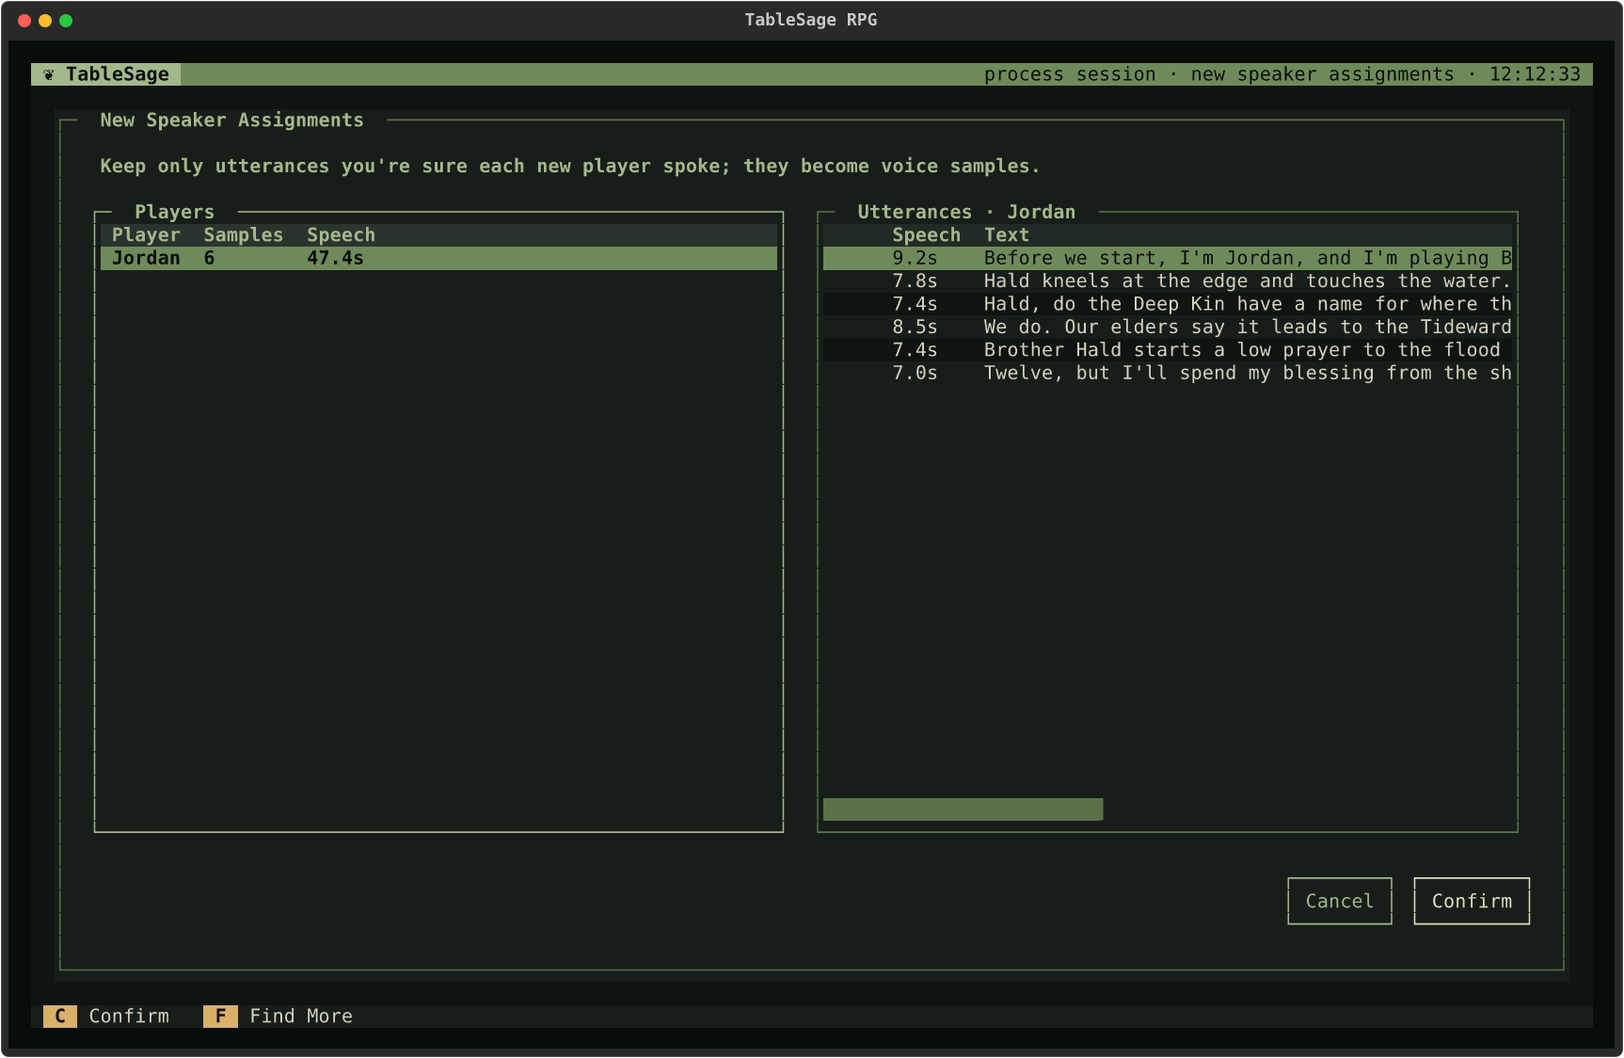
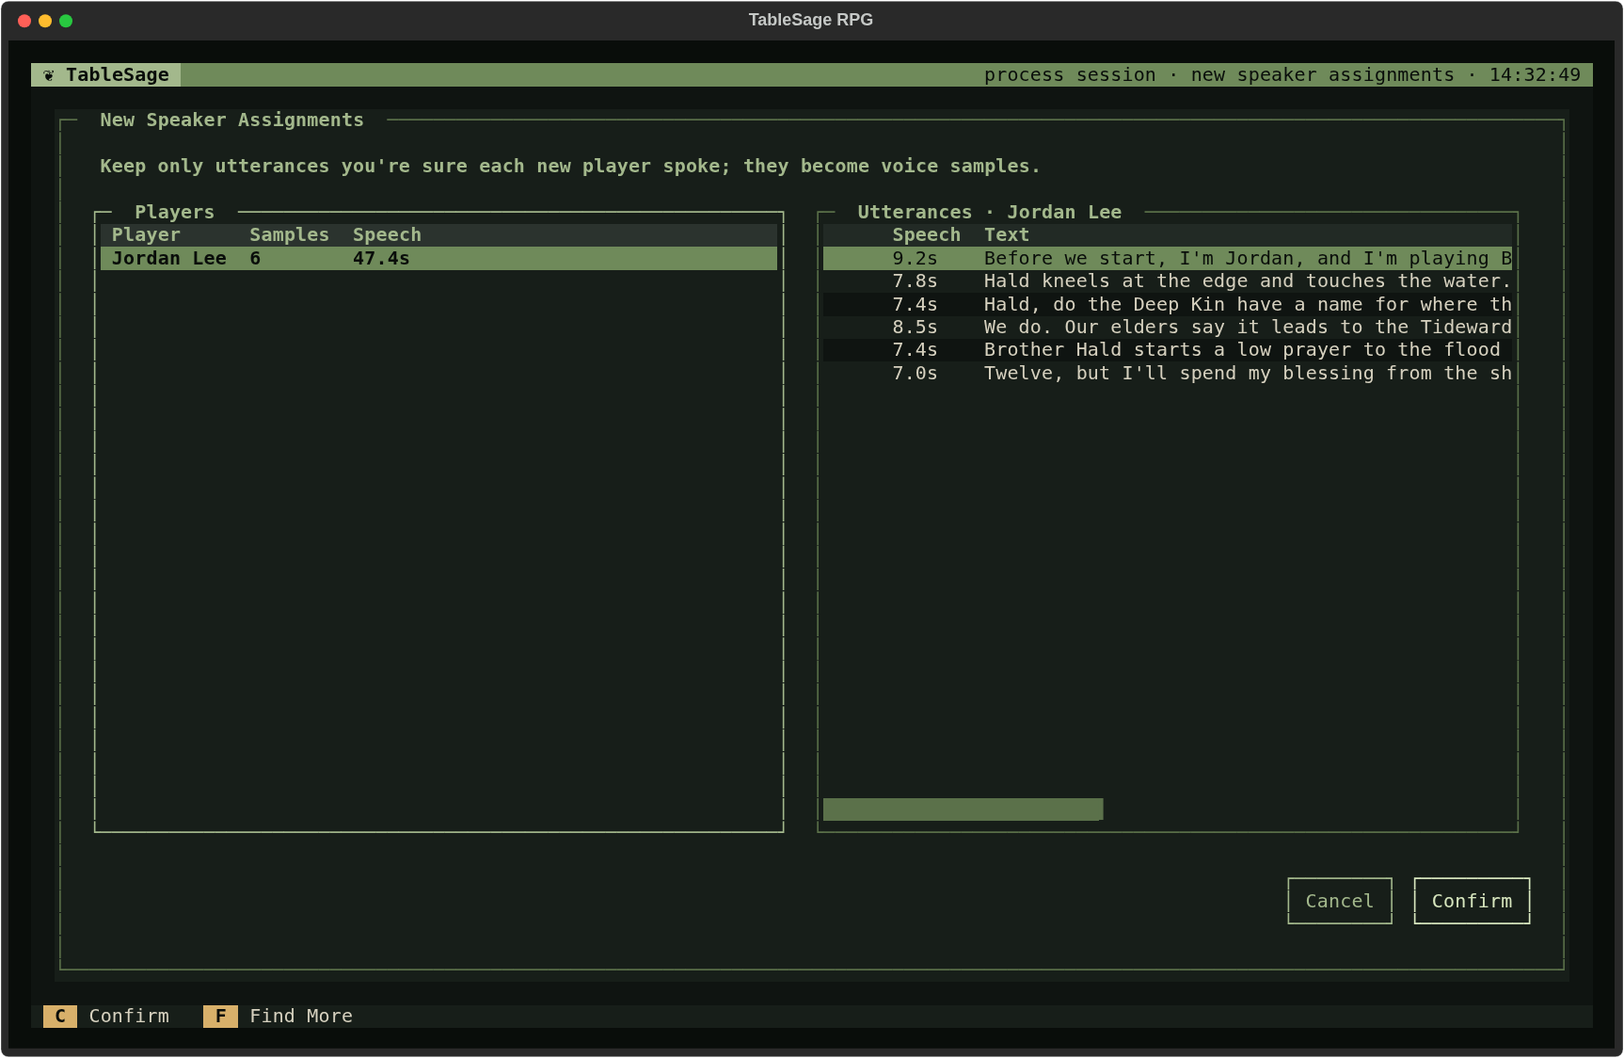
Use full Player names in documentation examples and screenshots
The docs now recommend entering a Player's full name so Players who share
a first name stay distinct, so the examples follow that advice:

- Rewrite example Players in the guides, concepts, and screen reference
  with full names (Alice Chen, Bob Martinez, Priya Patel, Jordan Lee,
  Morgan Reyes). In-character dialogue keeps first names.
- Recapture the 21 screenshots that show Player names from a reseeded
  documentation fixture.
- Seed full names in seed_sample_data.py, and restore its attendance
  seeding (lost with the roster removal), without which seeded Sessions
  had no attendees and seed_docs_data.py failed.
- Update seed_docs_data.py's verification for the current artifact graph:
  its hand-written outputs import as present-but-stale legacy artifacts,
  so check they exist and that each Scene Breakdown matches its Ledger
  instead of requiring current states and a campaign history.
- Start a Campaign: add the full-name recommendation and drop the date
  validation and prior-recap details.
- Replace "voice profiles" with "voice prints" in scripts/README.md.

diff --git a/scripts/seed_docs_data.py b/scripts/seed_docs_data.py
@@ -30,7 +30,12 @@ from tablesage_application.session_pipeline.generate_player_introductions import
     validate_player_introductions,
 )
 from tablesage_application.session_pipeline.role_transcript import RoleTranscript, RoleTranscriptUtterance
-from tablesage_application.session_pipeline.scene_breakdown import Scene, SceneBreakdownContent, persist_ledger_pair
+from tablesage_application.session_pipeline.scene_breakdown import (
+    Scene,
+    SceneBreakdown,
+    SceneBreakdownContent,
+    persist_ledger_pair,
+)
 from tablesage_application.session_pipeline.transcript_sections import (
     InclusiveUtteranceRange,
     TranscriptSectionsGenerationResponse,
@@ -43,11 +48,26 @@ from tablesage_tools.model import Transcript
 from tablesage_tools.model.transcript import TranscriptionWord, Utterance
 
 GM = "Game Master"
-PLAYERS = {GM: "Alice", "Thorgrim": "Bob", "Lyra": "Priya"}
+PLAYERS = {GM: "Alice Chen", "Thorgrim": "Bob Martinez", "Lyra": "Priya Patel"}
 INTRODUCTIONS = [
     PlayerIntroduction(character="Thorgrim", description="A dwarven shieldbearer searching for his missing sister, Dagna."),
     PlayerIntroduction(character="Lyra", description="An elven cartographer tracing the lost waterways beneath Ironhold."),
 ]
+
+# Session outputs this script writes by hand.
+AUTHORED = (
+    ArtifactName.INPUT_AUDIO,
+    ArtifactName.TRANSCRIPT,
+    ArtifactName.TRANSCRIPT_TEXT,
+    ArtifactName.REVIEWED_TRANSCRIPT,
+    ArtifactName.ROLE_TRANSCRIPT,
+    ArtifactName.TRANSCRIPT_SECTIONS,
+    ArtifactName.LEDGER,
+    ArtifactName.SCENE_BREAKDOWN,
+    ArtifactName.PLAYER_INTRODUCTIONS,
+    ArtifactName.RECAP_SUMMARY,
+    ArtifactName.SUMMARY,
+)
 
 # Each scene's entries are (role, established fact/action). These authored fixtures
 # deliberately keep transcript, Ledger, scene coverage, and summaries aligned.
@@ -286,29 +306,19 @@ def verify(app: Application) -> None:
         validate_player_introductions(introductions, ledger.attendees)
         Transcript.load(folder / "transcript.json")
         Transcript.load(folder / "transcript_reviewed.json")
-        # Registered for the reworked processing flow, but nothing generates them yet.
-        not_yet_generated = {
-            ArtifactName.NEW_SPEAKER_SET,
-            ArtifactName.NEW_SPEAKER_ASSIGNMENTS,
-            ArtifactName.CLEANED_TRANSCRIPT,
-            ArtifactName.REVIEWED_NEW_SPEAKER_ASSIGNMENTS,
-            ArtifactName.SPEAKER_ENHANCED_TRANSCRIPT,
-            ArtifactName.SPELLCHECKED_TRANSCRIPT,
-        }
-        expected = set(ArtifactName) - not_yet_generated
+        # The app imports these authored files as legacy outputs: present but stale, so Previously On and
+        # Opportunities refuse them. The screenshot launchers build that history from scene_breakdown.json.
         states = app.session_artifact_states(game_session.id)
-        invalid = {name.value: states[name].value for name in expected if states[name] != ArtifactStatus.CURRENT}
-        if invalid:
-            raise ValueError(f"Invalid artifact states for {game_session.name}: {invalid}")
+        missing = [name.value for name in AUTHORED if states[name] == ArtifactStatus.MISSING]
+        if missing:
+            raise ValueError(f"Missing authored outputs for {game_session.name}: {missing}")
+        breakdown = SceneBreakdown.load(folder / "scene_breakdown.json")
+        if breakdown.ledger_sha256 != hashlib.sha256((folder / "ledger.json").read_bytes()).hexdigest():
+            raise ValueError(f"Scene Breakdown provenance mismatch for {game_session.name}")
         export_count = len(app.exportable_artifacts(game_session.id))
-        print(f"Verified {game_session.name}: {len(ledger.utterances)} Ledger entries; {export_count} exports")
-    history = app.previously_on_history(campaign.id)
-    for session in history.sessions:
-        folder = app.session_folder(session.breakdown.session_id)
-        if session.breakdown.ledger_sha256 != hashlib.sha256((folder / "ledger.json").read_bytes()).hexdigest():
-            raise ValueError("Scene Breakdown provenance mismatch")
-    recap = app.create_campaign_scene_recap(campaign.id)
-    print(f"Campaign history ready: {len(history.sessions)} sessions, {len(recap.scenes)} scenes")
+        print(
+            f"Verified {game_session.name}: {len(ledger.utterances)} Ledger entries, {len(breakdown.scenes)} scenes; {export_count} exports"
+        )
 
 
 def main() -> None:

diff --git a/scripts/seed_sample_data.py b/scripts/seed_sample_data.py
@@ -42,22 +42,30 @@ def _ensure_glossary_entry(app: Application, campaign: Campaign, term: str, desc
     app.create_glossary_entry(GlossaryEntry(campaign_id=campaign.id, term=term, description=description))
 
 
-def _ensure_sessions(app: Application, campaign: Campaign, sessions: list[tuple[str, date]]) -> None:
+def _ensure_sessions(app: Application, campaign: Campaign, sessions: list[tuple[str, date]], attendees: list[tuple[Player, str]]) -> None:
+    """Create missing sessions; give any session without attendance these (player, role) attendees.
+
+    A new session copies its predecessor's attendance, so normally only the first one is filled here.
+    """
     existing_names = {s.name for s in app.list_sessions(campaign.id)}
     for name, session_date in sessions:
-        if name in existing_names:
-            continue
-        app.create_session(campaign.id, name, session_date)
+        if name not in existing_names:
+            app.create_session(campaign.id, name, session_date)
+        game_session = next(s for s in app.list_sessions(campaign.id) if s.name == name)
+        if not app.list_attendance(game_session.id):
+            for player, role in attendees:
+                app.add_attendance_with_roles(game_session.id, player.id, [role])
 
 
 def seed(app: Application) -> None:
-    _get_or_create_player(app, "Alice")
-    _get_or_create_player(app, "Bob")
-    _get_or_create_player(app, "Priya")
-    _get_or_create_player(app, "Sam")
+    # Full names, as the documentation recommends, so Players who share a first name stay distinct.
+    alice = _get_or_create_player(app, "Alice Chen")
+    bob = _get_or_create_player(app, "Bob Martinez")
+    priya = _get_or_create_player(app, "Priya Patel")
+    sam = _get_or_create_player(app, "Sam Okafor")
 
     # A player with no voice clips/voice print yet, to exercise that empty state.
-    _get_or_create_player(app, "Jordan")
+    _get_or_create_player(app, "Jordan Lee")
 
     iron_pact = _get_or_create_campaign(
         app,
@@ -92,6 +100,7 @@ def seed(app: Application) -> None:
             ("Tunnels of the Deep Kin", date(2026, 1, 11)),
             ("The Ashspine Betrayal", date(2026, 1, 25)),
         ],
+        [(alice, "Game Master"), (priya, "Lyra"), (bob, "Thorgrim")],
     )
     _ensure_sessions(
         app,
@@ -100,8 +109,9 @@ def seed(app: Application) -> None:
             ("A Crown Without a Head", date(2026, 2, 1)),
             ("The Regent's Gambit", date(2026, 2, 15)),
         ],
+        [(priya, "Nadia"), (sam, "Kestrel"), (bob, "Game Master")],
     )
-    _ensure_sessions(app, voidfall, [("The Long Fall", date(2026, 3, 1))])
+    _ensure_sessions(app, voidfall, [("The Long Fall", date(2026, 3, 1))], [(alice, "Vex"), (priya, "Game Master"), (sam, "Juno")])
 
 
 def main() -> None:

diff --git a/docs/guides/start-a-campaign.md b/docs/guides/start-a-campaign.md
@@ -17,20 +17,18 @@ The Campaign now has a home for its Sessions and Glossary. Its first Session can
 
 ## Create the First Session
 
-On the Campaign's **Sessions** tab, press **N** (**New Session**). Give the Session a useful name, such as *Arrival at the Harbor*, and enter its required date as `YYYY-MM-DD`. Use a real calendar date, such as `2026-10-01`. A blank date shows *Date is required.* An impossible date or another format shows an inline error; correct it before continuing. Choose **Create Session**. TableSage opens Session Detail.
-
-TableSage uses Session dates to choose the prior recap for later session summaries. Older Sessions can still be undated; when every Session is undated, no prior recap is included. See [How the Prior Recap Is Chosen](../concepts/sessions.md#how-the-prior-recap-is-chosen).
+On the Campaign's **Sessions** tab, press **N** (**New Session**). Give the Session a useful name, such as *Arrival at the Harbor*, and enter its required date as `YYYY-MM-DD`. Use a real calendar date, such as `2026-10-01`. Choose **Create Session**. TableSage opens Session Detail.
 
 The first Session starts with an empty Attendance list. Add everyone whose speech is in the recording, including the game master.
 
 ## Add Attendees and Roles
 
 1. Focus the **Attendance** table and press **N** (**New Attendee**).
-2. In **Player**, select an existing person, or choose **<New player…>** and enter their real-world name. TableSage creates the Player and returns to the attendee dialog.
+2. In **Player**, select an existing person, or choose **<New player…>** and enter their real-world name. TableSage creates the Player and returns to the attendee dialog. We recommend using the Player's full name, with normal spacing and capitalization, so that Players who share a first name stay distinct.
 3. Add their Role: press **R** (**Add Role**) for a character name, or **G** (**Add Game Master**) for the GM.
 4. Choose **Save**, then repeat for the other attendees.
 
-For example, Jordan is the Player and *Brother Hald* is their Role. Morgan is another Player with the *Game Master* Role. Use the Player's name for the person speaking and the Role for their identity in this particular Session. A Player can have more than one Role, but transcript attribution uses only the alphabetically first Role for all their speech; TableSage does not distinguish their characters line by line.
+For example, Jordan Lee is the Player and *Brother Hald* is their Role. Morgan Reyes is another Player with the *Game Master* Role. Use the Player's name for the person speaking and the Role for their identity in this particular Session. A Player can have more than one Role, but transcript attribution uses only the alphabetically first Role for all their speech; TableSage does not distinguish their characters line by line.
 
 ![The attendee dialog, with a Player selection and a list of Roles](../images/screens/attendee-dialog.png)
 

diff --git a/docs/guides/process-session-new-players.md b/docs/guides/process-session-new-players.md
@@ -9,7 +9,7 @@ You need the session recording, configured [keys and models](settings.md), and a
 1. On Session Detail, check that everyone who spoke is in **Attendance**, including the GM, and that their Roles are correct.
 2. Press **P** (**Process**). The **New Players** panel names the attendees whose voices need to be learned.
 
-   ![Process Session before processing, listing Jordan under New Players](../images/screens/process-session-new-player.png)
+   ![Process Session before processing, listing Jordan Lee under New Players](../images/screens/process-session-new-player.png)
 
 3. Press **C** (**Continue**) and choose the recording. Supported formats are `.wav`, `.mp3`, `.m4a`, `.flac`, and `.ogg`.
 4. For a `.wav`, answer **Clean Audio?**: choose **Yes** for a raw recording or **No** if it has already been cleaned. Other supported formats are cleaned automatically.
@@ -31,7 +31,7 @@ The replacements apply across the transcript. Correct names help TableSage inter
 
 **Review New Speaker Assignments** proposes lines for each new Player. The lines you keep will become voice samples, so listen to them and keep only speech you are sure belongs to that person.
 
-A character name mentioned in a line is not enough to identify its speaker. If Priya says “Hald, what do you think?”, that is Priya's voice, even though Hald is Jordan's character. A few certain clips are more useful than a collection containing mixed voices.
+A character name mentioned in a line is not enough to identify its speaker. If Priya Patel says “Hald, what do you think?”, that is Priya's voice, even though Hald is Jordan Lee's character. A few certain clips are more useful than a collection containing mixed voices.
 
 1. Select a Player in the **Players** pane, then press **→** or **Enter** to enter their **Utterances**.
 2. Move through the lines to hear their clips.

diff --git a/docs/reference/screens/campaigns.md b/docs/reference/screens/campaigns.md
@@ -29,7 +29,7 @@ The list shows every Campaign in the workspace, one Campaign per two-line row: i
 |---|---|
 | **C** | **Clean Up.** After you confirm, removes campaign folders on disk that no longer have a Campaign in the database, such as those left by deleted Campaigns. A notification lists what was removed, or says there was nothing to remove. |
 | **X** | **Export Campaign.** Writes the highlighted Campaign, with its Sessions, Glossary, and files, to a ZIP archive (default name `campaign.zip`). Unavailable when no Campaign is highlighted. It refuses with *Wait for campaign processing to finish before exporting* while any of the Campaign's Sessions is being processed. |
-| **I** | **Import Campaign.** Imports a Campaign from a ZIP archive made by Export Campaign. Players are workspace-wide and aren't part of a campaign archive, so every Player who attended its Sessions must already exist here with the same name; use [Import Players](players.md#other-actions) first. If the import fails, an **Import Campaign Failed** window lists the problems, such as *Missing player: Jordan*. |
+| **I** | **Import Campaign.** Imports a Campaign from a ZIP archive made by Export Campaign. Players are workspace-wide and aren't part of a campaign archive, so every Player who attended its Sessions must already exist here with the same name; use [Import Players](players.md#other-actions) first. If the import fails, an **Import Campaign Failed** window lists the problems, such as *Missing player: Jordan Lee*. |
 
 ### Campaign Dialog
 

diff --git a/docs/guides/move-campaign-workspace.md b/docs/guides/move-campaign-workspace.md
@@ -38,7 +38,7 @@ On the same computer and user account, your existing API keys are shared with th
 
 Existing Players are matched by name, ignoring capitalization and surrounding spaces, and their clips are merged. Identical clips are skipped. If the destination already has Players, make sure matching names refer to the same people before importing.
 
-Campaign import requires every attendee to exist with the exact archived player name. A destination Player whose name differs in capitalization may be matched by player import but still fail the Campaign's exact-name check. For example, if the destination already has a Player named *priya* and the archive's attendee is *Priya*, player import merges Priya's clips into *priya*, but campaign import reports *Missing player: Priya*. Check the reported missing name and use **Edit Metadata** on Player Detail to make the name match before retrying campaign import.
+Campaign import requires every attendee to exist with the exact archived player name. A destination Player whose name differs in capitalization may be matched by player import but still fail the Campaign's exact-name check. For example, if the destination already has a Player named *priya patel* and the archive's attendee is *Priya Patel*, player import merges Priya's clips into *priya patel*, but campaign import reports *Missing player: Priya Patel*. Check the reported missing name and use **Edit Metadata** on Player Detail to make the name match before retrying campaign import.
 
 ## Import the Campaign
 

diff --git a/scripts/README.md b/scripts/README.md
@@ -11,7 +11,7 @@ Keep each utility in a single `.py` file when practical. Scripts should:
 
 ## Documentation sample data
 
-`seed_docs_data.py --cwd .for-docs` populates an initialized, empty documentation deployment with fictional players and campaigns. Run it with a Python environment containing TableSage. It uses `seed_sample_data.py` for the basic entities and adds three complete Iron Pact sessions with transcripts, Ledgers, scenes, introductions, recaps, and summaries. All outputs are authored fixtures; the WAV files contain silence, and no provider calls or real voice profiles are involved.
+`seed_docs_data.py --cwd .for-docs` populates an initialized, empty documentation deployment with fictional players and campaigns. Run it with a Python environment containing TableSage. It uses `seed_sample_data.py` for the basic entities and adds three complete Iron Pact sessions with transcripts, Ledgers, scenes, introductions, recaps, and summaries. All outputs are authored fixtures; the WAV files contain silence, and no provider calls or real voice prints are involved.
 
 The script backs up the empty database before seeding, refuses existing user data, and verifies a marked fixture on subsequent runs without overwriting edits. Textual MCP launch instructions for the seeded deployment are kept in the git-ignored `.for-docs/session-processing/README.md`.
 

diff --git a/docs/concepts/session-processing-new-players.md b/docs/concepts/session-processing-new-players.md
@@ -57,7 +57,7 @@ The result is a set of candidate samples, not an established identity. Someone w
 
 Human review checks whether each candidate really contains the intended Player's voice. Listening to the recording helps distinguish a person speaking from someone merely mentioning or addressing them.
 
-For example, *Hald, do the Deep Kin have a name…* mentions Jordan's character, but Priya may be the one asking the question. Treating it as Jordan's speech would mix Priya's voice into Jordan's samples. A few certain lines are more valuable than a larger collection of mixed voices.
+For example, *Hald, do the Deep Kin have a name…* mentions Jordan Lee's character, but Priya Patel may be the one asking the question. Treating it as Jordan's speech would mix Priya's voice into Jordan's samples. A few certain lines are more valuable than a larger collection of mixed voices.
 
 When more evidence is needed, TableSage can search for speech acoustically similar to the confirmed candidates, comparing it with competing voices. Those additions also require human review. This expands the evidence without letting a voice match alone become proof of identity.
 

diff --git a/docs/reference/screens/process-session.md b/docs/reference/screens/process-session.md
@@ -29,7 +29,7 @@ The mark at the left of each row shows its state:
 
 Some steps appear only when they apply:
 
-- **New Players.** When any attendee is a new Player, their names are listed at the right, and six more steps appear: Suggest Name Corrections, **Review Name Corrections**, Apply Name Corrections, Isolate New Speakers, **Review New Speaker Assignments**, and Seed Player Voice Samples. The screenshot above shows a Session with a new Player, Jordan. A Session where everyone already has a voice print skips those steps:
+- **New Players.** When any attendee is a new Player, their names are listed at the right, and six more steps appear: Suggest Name Corrections, **Review Name Corrections**, Apply Name Corrections, Isolate New Speakers, **Review New Speaker Assignments**, and Seed Player Voice Samples. The screenshot above shows a Session with a new Player, Jordan Lee. A Session where everyone already has a voice print skips those steps:
 
   ![Process Session for returning Players, part-way through](../../images/screens/process-session-midway.png)
 

diff --git a/docs/reference/screens/index.md b/docs/reference/screens/index.md
@@ -4,7 +4,7 @@ This section documents every screen in TableSage: what it shows, every key it re
 
 Start with [Common UI Patterns](ui-patterns.md). It covers the conventions every screen shares: going back with **Esc**, quitting with **Ctrl+Q**, the **New**, **Edit**, and **Delete** keys on lists, secondary actions and the **?** menu, unavailable actions, and the common dialogs.
 
-The screenshots use a fictional sample workspace: the *Iron Pact* Campaign, its Players Alice, Bob, Priya, and Jordan, and a Session called *The Flooded Cistern*. They were captured in a 140 × 44 terminal. In a narrower terminal, some footer labels can be cut off.
+The screenshots use a fictional sample workspace: the *Iron Pact* Campaign, its Players Alice Chen, Bob Martinez, Priya Patel, and Jordan Lee, and a Session called *The Flooded Cistern*. They were captured in a 140 × 44 terminal. In a narrower terminal, some footer labels can be cut off.
 
 ## Screens
 

diff --git a/docs/guides/correct-processed-session.md b/docs/guides/correct-processed-session.md
@@ -21,11 +21,11 @@ Changing a Session's transcript does not remove clips already added to a Player'
 
 ## Reopen a Transcript Review
 
-For example, suppose a line about promising payment was assigned to Jordan but was actually spoken by Priya:
+For example, suppose a line about promising payment was assigned to Jordan Lee but was actually spoken by Priya Patel:
 
 1. On Session Detail, press **P** (**Process**).
 2. Highlight the completed **Review Transcript** step and press **R** (**Restart Step**).
-3. Find the line, listen to its clip, and assign Priya using the legend's number key or the **Speaker** dropdown in **Edit Utterance**.
+3. Find the line, listen to its clip, and assign Priya Patel using the legend's number key or the **Speaker** dropdown in **Edit Utterance**.
 4. Correct any related text, then choose **Confirm**.
 5. Complete any later prompts. TableSage applies the correction and rebuilds the dependent outputs.
 

diff --git a/docs/reference/screens/ui-patterns.md b/docs/reference/screens/ui-patterns.md
@@ -48,7 +48,7 @@ These list keys appear on:
 - the voice clips on Player Detail, where there is only **D**;
 - the correction and glossary lists that processing asks you to review.
 
-![The Players List with Alice highlighted and the New Player, Edit Player, and Delete Player keys in the footer](../../images/screens/players-list.png)
+![The Players List with Alice Chen highlighted and the New Player, Edit Player, and Delete Player keys in the footer](../../images/screens/players-list.png)
 
 The footer labels these keys with what they act on, for example **New Campaign**, **Edit Session**, or **Delete Entry**. For lists with all three actions, **New**, **Edit**, and **Delete** appear together in that order at the end of the left-aligned bindings. Other main actions come before them. **? Other actions** stays last at the far right, so its position is consistent across screens.
 
